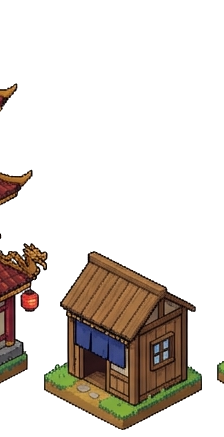
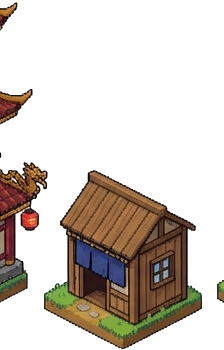
🎨 fix white halos + building anchors — flood-fill alpha on all buildings

diff --git a/ui/src/entities/Building.js b/ui/src/entities/Building.js
@@ -99,12 +99,15 @@ export default class Building {
         const scale = Math.round(rawScale * 4) / 4 || rawScale;
         img.setScale(scale);
         const spriteH = img.height * scale;
-        img.setOrigin(0.5, 1); // anchor at bottom-center (ground level)
+        // Anchor at 50% x, 85% y — places the isometric ground base correctly
+        img.setOrigin(0.5, 0.85);
+        // Shift up slightly so base sits on the ground plane
+        img.setY(-(spriteH * 0.15));
         this.container.addAt(img, 0); // add behind label
         this.spriteImg = img;
 
         // Update label above sprite
-        this.label.setPosition(0, -(spriteH + 8));
+        this.label.setPosition(0, -(spriteH * 0.85 + 8));
         this.label.setText(`${this.name} Lv${this.level}`);
         return; // skip programmatic draw
       }
